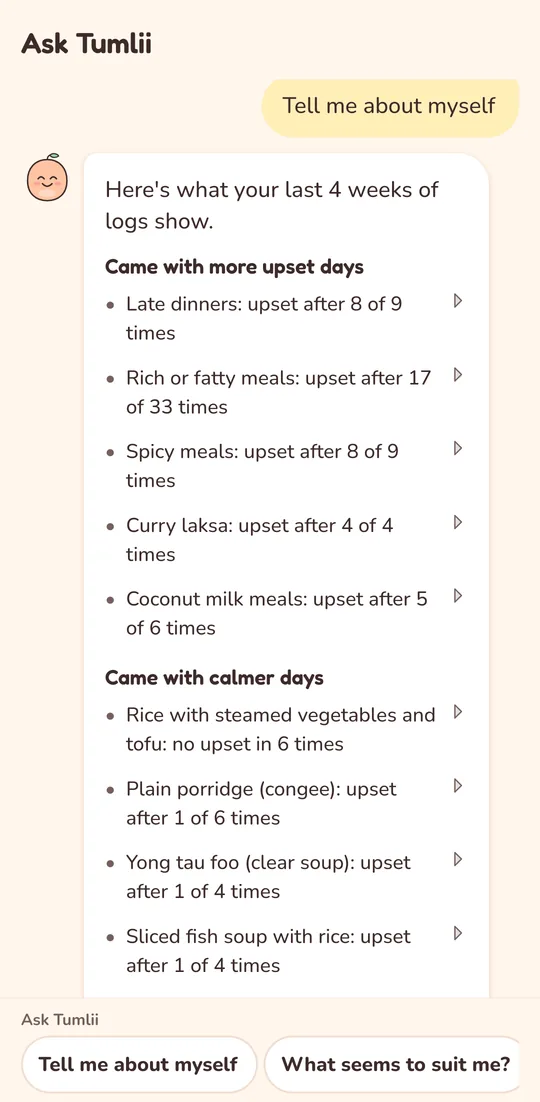
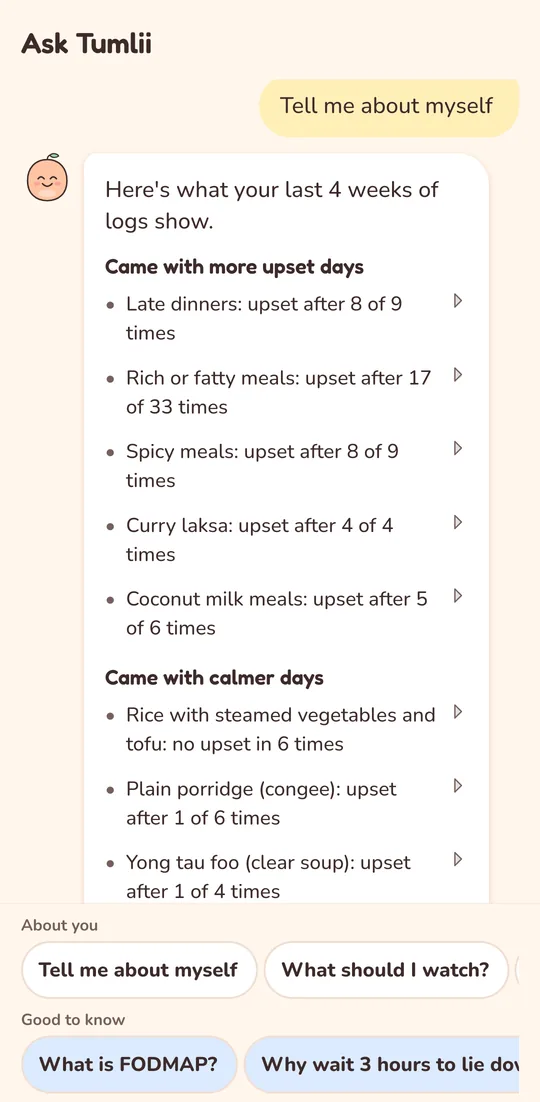
Ask Tumlii section: questions about you and Good to know answers with sources
- Ask Tumlii gets its own section with three new screens (about you, What is FODMAP?, the source link)
- Two-week tries become their own section
- Join list and FAQ: where Tumlii's answers come from

Changed region(s): [[0.0296, 0.833, 0.9778, 1.0], [0.5333, 0.0926, 0.9185, 0.1234], [0.4741, 0.0617, 0.5037, 0.1234]]

diff --git a/index.html b/index.html
@@ -381,11 +381,19 @@ footer .safety { background: var(--container); color: var(--ink); border-radius:
         </article>
         <article class="feature" style="--tint:var(--lilac)">
           <div class="copy">
-            <h3>Ask Tumlii, then try one change</h3>
-            <p>Tap a question like &ldquo;Tell me about myself&rdquo; and Tumlii answers in plain words, using only your own notes. It can suggest one small change to try for two weeks, then puts those two weeks next to the two before, so you can see how they compared.</p>
+            <h3>Ask Tumlii</h3>
+            <p>Tap a question like &ldquo;Tell me about myself&rdquo; and Tumlii answers in plain words from your own notes, including stress, sleep and exercise when they stand out. Or tap a Good to know question, like &ldquo;What is FODMAP?&rdquo; or &ldquo;Why wait 3 hours to lie down?&rdquo; Each answer is written from a published study, links to it, and adds what your own logs show.</p>
+            <span class="you"><svg viewBox="0 0 24 24"><path d="M5 18l-1 3 4-1.5A9 9 0 1 0 5 18z"/><path d="M9.5 9.5a2.5 2.5 0 1 1 3.5 2.3c-.6.3-1 .8-1 1.5M12 16.5h.01"/></svg>Answers that show their sources</span>
+          </div>
+          <div class="stage reveal"><figure class="phone side left"><div class="screen"><div class="island"></div><div class="bar-top" aria-hidden="true"><span>9:41</span><svg viewBox="0 0 64 14"><rect x="0" y="9" width="3" height="5" rx="1"/><rect x="5" y="6" width="3" height="8" rx="1"/><rect x="10" y="3" width="3" height="11" rx="1"/><rect x="15" y="0" width="3" height="14" rx="1"/><path d="M30 4.6a9 9 0 0 1 12 0l-1.6 1.7a6.7 6.7 0 0 0-8.8 0zM32.7 7.4a5 5 0 0 1 6.6 0L36 11z"/><rect x="46" y="1.5" width="15" height="11" rx="3" fill="none" stroke="#2B1F1D" stroke-width="1.4"/><rect x="48" y="3.5" width="11" height="7" rx="1.6"/><rect x="62" y="5" width="1.6" height="4" rx=".8"/></svg></div><img src="assets/screens/ask.webp" width="540" height="1102" alt="Ask Tumlii: Tell me about myself, with what came with more upset days and calmer days" loading="lazy" decoding="async"></div></figure><figure class="phone front"><div class="screen"><div class="island"></div><div class="bar-top" aria-hidden="true"><span>9:41</span><svg viewBox="0 0 64 14"><rect x="0" y="9" width="3" height="5" rx="1"/><rect x="5" y="6" width="3" height="8" rx="1"/><rect x="10" y="3" width="3" height="11" rx="1"/><rect x="15" y="0" width="3" height="14" rx="1"/><path d="M30 4.6a9 9 0 0 1 12 0l-1.6 1.7a6.7 6.7 0 0 0-8.8 0zM32.7 7.4a5 5 0 0 1 6.6 0L36 11z"/><rect x="46" y="1.5" width="15" height="11" rx="3" fill="none" stroke="#2B1F1D" stroke-width="1.4"/><rect x="48" y="3.5" width="11" height="7" rx="1.6"/><rect x="62" y="5" width="1.6" height="4" rx=".8"/></svg></div><img src="assets/screens/learn.webp" width="540" height="1102" alt="Ask Tumlii: What is FODMAP?, answered in plain words" loading="lazy" decoding="async"></div></figure><figure class="phone side right"><div class="screen"><div class="island"></div><div class="bar-top" aria-hidden="true"><span>9:41</span><svg viewBox="0 0 64 14"><rect x="0" y="9" width="3" height="5" rx="1"/><rect x="5" y="6" width="3" height="8" rx="1"/><rect x="10" y="3" width="3" height="11" rx="1"/><rect x="15" y="0" width="3" height="14" rx="1"/><path d="M30 4.6a9 9 0 0 1 12 0l-1.6 1.7a6.7 6.7 0 0 0-8.8 0zM32.7 7.4a5 5 0 0 1 6.6 0L36 11z"/><rect x="46" y="1.5" width="15" height="11" rx="3" fill="none" stroke="#2B1F1D" stroke-width="1.4"/><rect x="48" y="3.5" width="11" height="7" rx="1.6"/><rect x="62" y="5" width="1.6" height="4" rx=".8"/></svg></div><img src="assets/screens/learn-source.webp" width="540" height="1102" alt="The end of an answer: a link to the published study it is written from" loading="lazy" decoding="async"></div></figure></div>
+        </article>
+        <article class="feature" style="--tint:var(--peach)">
+          <div class="copy">
+            <h3>Try one change for two weeks</h3>
+            <p>When something stands out, Tumlii can suggest one small change, like finishing dinner earlier. Start a two-week try with one tap. Afterwards, Tumlii puts those two weeks next to the two before, so you can see how they compared.</p>
             <span class="you"><svg viewBox="0 0 24 24"><path d="M9 3h6M10 3v6l-5 9a2 2 0 0 0 1.8 3h10.4A2 2 0 0 0 19 18l-5-9V3"/></svg>Small changes, checked fairly</span>
           </div>
-          <div class="stage reveal"><figure class="phone side left"><div class="screen"><div class="island"></div><div class="bar-top" aria-hidden="true"><span>9:41</span><svg viewBox="0 0 64 14"><rect x="0" y="9" width="3" height="5" rx="1"/><rect x="5" y="6" width="3" height="8" rx="1"/><rect x="10" y="3" width="3" height="11" rx="1"/><rect x="15" y="0" width="3" height="14" rx="1"/><path d="M30 4.6a9 9 0 0 1 12 0l-1.6 1.7a6.7 6.7 0 0 0-8.8 0zM32.7 7.4a5 5 0 0 1 6.6 0L36 11z"/><rect x="46" y="1.5" width="15" height="11" rx="3" fill="none" stroke="#2B1F1D" stroke-width="1.4"/><rect x="48" y="3.5" width="11" height="7" rx="1.6"/><rect x="62" y="5" width="1.6" height="4" rx=".8"/></svg></div><img src="assets/screens/ask.webp" width="540" height="1102" alt="Ask Tumlii: what came with more upset days and with calmer days, from your last 4 weeks" loading="lazy" decoding="async"></div></figure><figure class="phone front"><div class="screen"><div class="island"></div><div class="bar-top" aria-hidden="true"><span>9:41</span><svg viewBox="0 0 64 14"><rect x="0" y="9" width="3" height="5" rx="1"/><rect x="5" y="6" width="3" height="8" rx="1"/><rect x="10" y="3" width="3" height="11" rx="1"/><rect x="15" y="0" width="3" height="14" rx="1"/><path d="M30 4.6a9 9 0 0 1 12 0l-1.6 1.7a6.7 6.7 0 0 0-8.8 0zM32.7 7.4a5 5 0 0 1 6.6 0L36 11z"/><rect x="46" y="1.5" width="15" height="11" rx="3" fill="none" stroke="#2B1F1D" stroke-width="1.4"/><rect x="48" y="3.5" width="11" height="7" rx="1.6"/><rect x="62" y="5" width="1.6" height="4" rx=".8"/></svg></div><img src="assets/screens/try-ideas.webp" width="540" height="1102" alt="Ask Tumlii suggests small changes, each with a Try for 2 weeks button" loading="lazy" decoding="async"></div></figure><figure class="phone side right"><div class="screen"><div class="island"></div><div class="bar-top" aria-hidden="true"><span>9:41</span><svg viewBox="0 0 64 14"><rect x="0" y="9" width="3" height="5" rx="1"/><rect x="5" y="6" width="3" height="8" rx="1"/><rect x="10" y="3" width="3" height="11" rx="1"/><rect x="15" y="0" width="3" height="14" rx="1"/><path d="M30 4.6a9 9 0 0 1 12 0l-1.6 1.7a6.7 6.7 0 0 0-8.8 0zM32.7 7.4a5 5 0 0 1 6.6 0L36 11z"/><rect x="46" y="1.5" width="15" height="11" rx="3" fill="none" stroke="#2B1F1D" stroke-width="1.4"/><rect x="48" y="3.5" width="11" height="7" rx="1.6"/><rect x="62" y="5" width="1.6" height="4" rx=".8"/></svg></div><img src="assets/screens/try.webp" width="540" height="1102" alt="A two-week try: finishing dinner 3 hours before lying down, day 1 of 14" loading="lazy" decoding="async"></div></figure></div>
+          <div class="stage reveal"><figure class="phone side left"><div class="screen"><div class="island"></div><div class="bar-top" aria-hidden="true"><span>9:41</span><svg viewBox="0 0 64 14"><rect x="0" y="9" width="3" height="5" rx="1"/><rect x="5" y="6" width="3" height="8" rx="1"/><rect x="10" y="3" width="3" height="11" rx="1"/><rect x="15" y="0" width="3" height="14" rx="1"/><path d="M30 4.6a9 9 0 0 1 12 0l-1.6 1.7a6.7 6.7 0 0 0-8.8 0zM32.7 7.4a5 5 0 0 1 6.6 0L36 11z"/><rect x="46" y="1.5" width="15" height="11" rx="3" fill="none" stroke="#2B1F1D" stroke-width="1.4"/><rect x="48" y="3.5" width="11" height="7" rx="1.6"/><rect x="62" y="5" width="1.6" height="4" rx=".8"/></svg></div><img src="assets/screens/try-ideas.webp" width="540" height="1102" alt="Ask Tumlii suggests small changes, each with a Try for 2 weeks button" loading="lazy" decoding="async"></div></figure><figure class="phone front"><div class="screen"><div class="island"></div><div class="bar-top" aria-hidden="true"><span>9:41</span><svg viewBox="0 0 64 14"><rect x="0" y="9" width="3" height="5" rx="1"/><rect x="5" y="6" width="3" height="8" rx="1"/><rect x="10" y="3" width="3" height="11" rx="1"/><rect x="15" y="0" width="3" height="14" rx="1"/><path d="M30 4.6a9 9 0 0 1 12 0l-1.6 1.7a6.7 6.7 0 0 0-8.8 0zM32.7 7.4a5 5 0 0 1 6.6 0L36 11z"/><rect x="46" y="1.5" width="15" height="11" rx="3" fill="none" stroke="#2B1F1D" stroke-width="1.4"/><rect x="48" y="3.5" width="11" height="7" rx="1.6"/><rect x="62" y="5" width="1.6" height="4" rx=".8"/></svg></div><img src="assets/screens/try.webp" width="540" height="1102" alt="A two-week try: finishing dinner 3 hours before lying down, day 1 of 14" loading="lazy" decoding="async"></div></figure></div>
         </article>
         <article class="feature" style="--tint:var(--mint)">
           <div class="copy">
@@ -469,6 +477,7 @@ footer .safety { background: var(--container); color: var(--ink); border-radius:
         <ul>
           <li><svg viewBox="0 0 24 24"><path d="M5 12l4 4 10-10"/></svg>Note a meal or how you feel in a few taps</li>
           <li><svg viewBox="0 0 24 24"><path d="M5 12l4 4 10-10"/></svg>See what your bad tummy days have in common</li>
+          <li><svg viewBox="0 0 24 24"><path d="M5 12l4 4 10-10"/></svg>Ask Tumlii about your days, with answers from published research</li>
           <li><svg viewBox="0 0 24 24"><path d="M5 12l4 4 10-10"/></svg>Try one small change for two weeks and see how it compared</li>
           <li><svg viewBox="0 0 24 24"><path d="M5 12l4 4 10-10"/></svg>Your diary stays locked on your phone</li>
         </ul>
@@ -488,6 +497,7 @@ footer .safety { background: var(--container); color: var(--ink); border-radius:
       <div class="faq">
         <details><summary>Is Tumlii a medical app?</summary><p>No. Tumlii is a diary. It helps you spot patterns in your own days. It does not diagnose illness, and it does not replace your doctor.</p></details>
         <details><summary>How long before it shows me something?</summary><p>It depends on how often you note things down. If Tumlii doesn't have enough days yet, it tells you, instead of guessing.</p></details>
+        <details><summary>Where do Tumlii's answers come from?</summary><p>Answers about you come only from what you've noted down. Good to know answers, like what FODMAP is, are written from published research, and each one links to the study it's based on. They're general information, not medical advice.</p></details>
         <details><summary>Where is my diary kept?</summary><p>On your phone, locked (encrypted). Tumlii doesn&rsquo;t send your notes anywhere. You can save a backup file and keep it wherever you like.</p></details>
         <details><summary>Does it work with my health app?</summary><p>Yes, if you want it to. On Android, Tumlii can read sleep, workouts and weight from Health Connect. On iPhone, it reads the same from Apple Health. It never writes anything back.</p></details>
         <details><summary>When can I start?</summary><p>The early release comes to Android phones in December 2026 and to iPhone in January 2027. Leave your email at the top of this page, and we'll send you one email when it's ready for your phone.</p></details>
